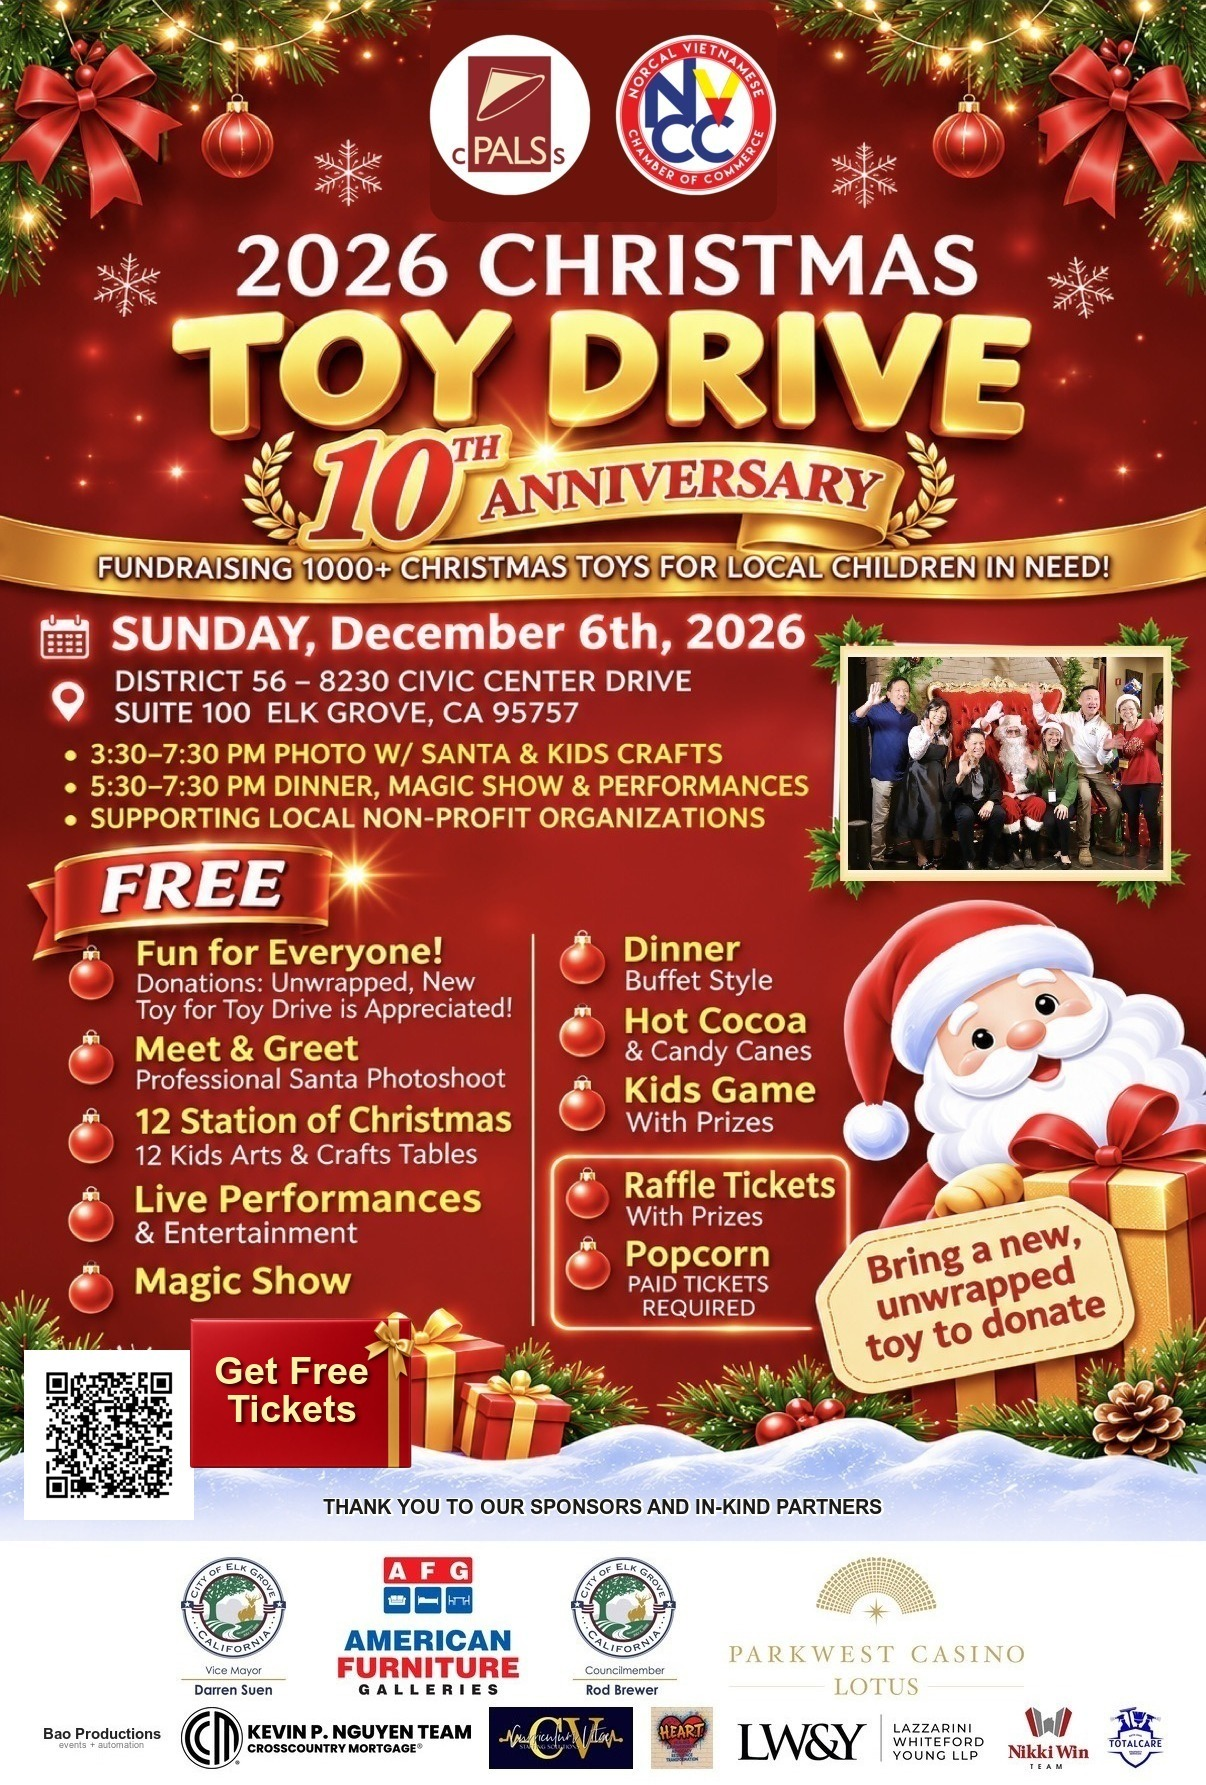
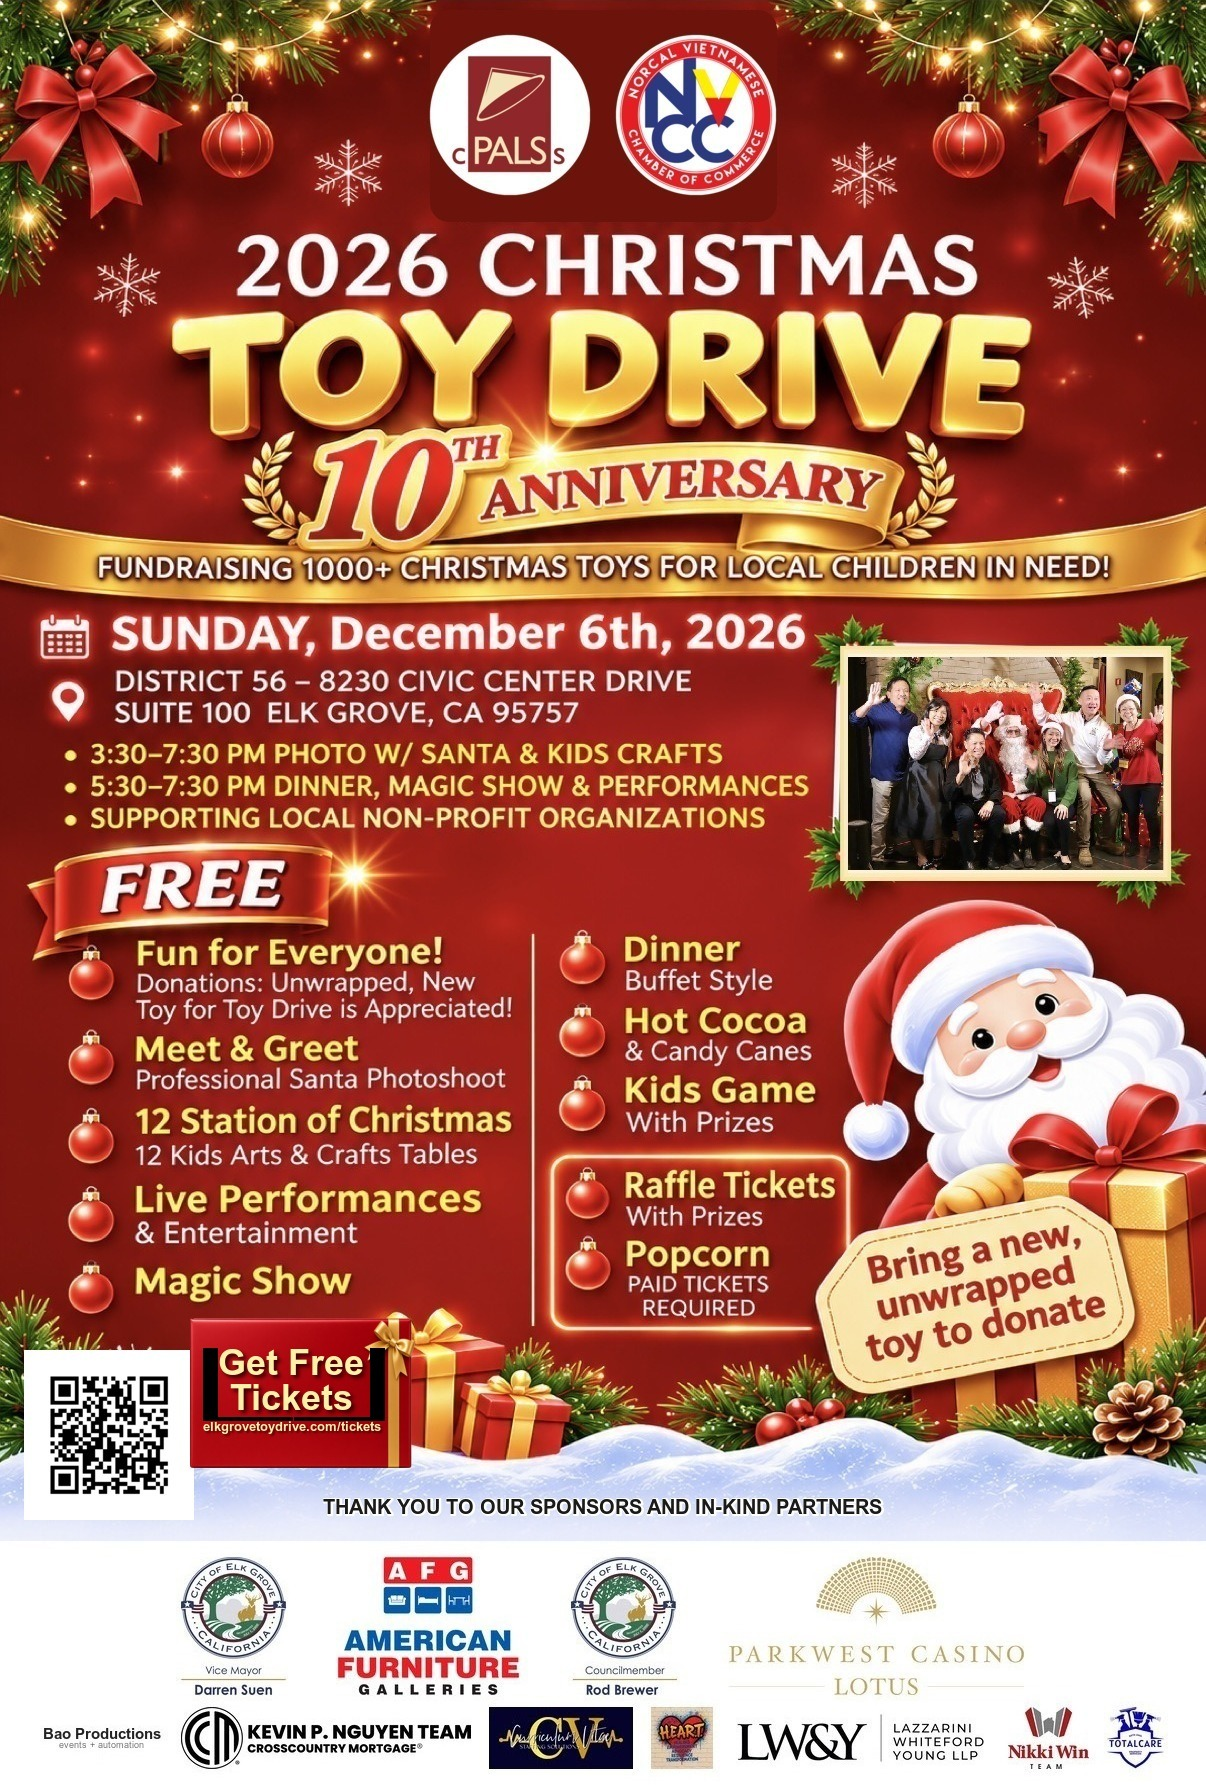
Add /tickets short link and flier QR that uses it.

Changed region(s): [[0.0307, 0.7395, 0.3375, 0.8627]]

diff --git a/tickets/index.html b/tickets/index.html
@@ -1,0 +1,27 @@
+<!DOCTYPE html>
+<html lang="en">
+<head>
+  <meta charset="UTF-8" />
+  <script async src="https://www.googletagmanager.com/gtag/js?id=G-934PPCQGLJ"></script>
+  <script src="../analytics.js"></script>
+  <meta http-equiv="refresh" content="0; url=https://www.eventbrite.com/e/10th-annual-elk-grove-toy-drive-celebration-tickets-2005386210138" />
+  <title>Free tickets — Elk Grove Toy Drive Celebration</title>
+  <script src="../clean-urls.js"></script>
+  <meta name="description" content="Redirecting to free Eventbrite tickets for the Elk Grove Toy Drive Celebration." />
+  <link rel="canonical" href="https://elkgrovetoydrive.com/tickets/" />
+  <meta property="og:title" content="Free tickets — Elk Grove Toy Drive Celebration" />
+  <meta property="og:description" content="Get free tickets for the Elk Grove Toy Drive Celebration on Eventbrite." />
+  <meta property="og:type" content="website" />
+  <meta property="og:url" content="https://elkgrovetoydrive.com/tickets/" />
+  <meta name="twitter:card" content="summary" />
+  <meta name="twitter:title" content="Free tickets — Elk Grove Toy Drive Celebration" />
+  <meta name="twitter:description" content="Get free tickets for the Elk Grove Toy Drive Celebration on Eventbrite." />
+  <meta name="robots" content="noindex" />
+  <script>
+    location.replace("https://www.eventbrite.com/e/10th-annual-elk-grove-toy-drive-celebration-tickets-2005386210138");
+  </script>
+</head>
+<body>
+  <p>Redirecting to free tickets… <a href="https://www.eventbrite.com/e/10th-annual-elk-grove-toy-drive-celebration-tickets-2005386210138">Continue to Eventbrite</a></p>
+</body>
+</html>
